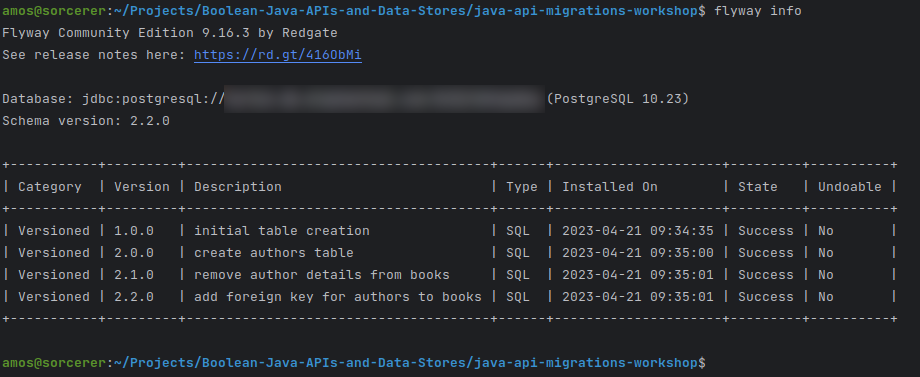
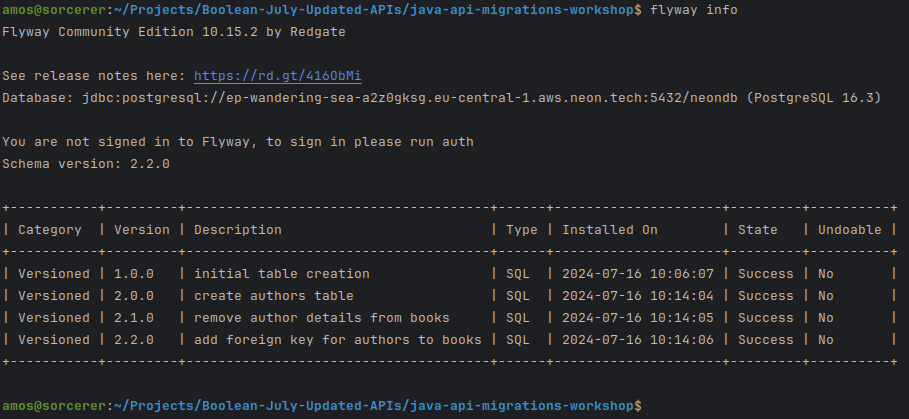
Updated the content to use a newer version of Flyway, to use the .toml file for the config and to connect to a database on Neon. Connection details have already been wiped on Neon.

diff --git a/README.md b/README.md
@@ -43,7 +43,7 @@ Running **flyway —version** should show the version of flyway you have just in
 
 ---
 
-In the previous session, you created a database and tables on Neon which you used Beeline Studio to connect to (using the connection details from Neon).
+In the previous session, you created a database and tables on Neon which you used Beekeeper Studio to connect to (using the connection details from Neon).
 
 Flyway has various places it looks for a config file, which will hold the details of the database connection (in this order):
 
@@ -88,37 +88,50 @@ password = "sample password"
 # buildEnvironment = "build"
 ```
 
-We need to make changes to the top part where it details, the connection details and then uncomment the part where the connection details are referenced.
+Now go to your Neon Dashboard and find the Connection Details, they should look something like this:
 
-Scroll down to the line that reads **flyway.locations=filesystem:sql*** and remove the part after the = sign. Change it so that it reads **flyway.locations=db/migrations** to make flyway read the current directory (where it is being run from) looking for a directory called **db** containing another one called **migrations** which will contain our database migration files.
+![Connection Details](assets/neon-details.png)
 
-Uncomment the line that starts with: **flyway.url** by removing the **#**.
+Take the values listed there and use them to populate your `flyway.toml` file as follows. Also change the name of the connection section from `sample` to something else relevant and uncomment the `environment` part adding the name of the connection sample as shown. It should look something like this (the connection details have already been changed in my Neon account):
 
-Then after the **=** sign add the following:
+```toml
+# More information on the parameters can be found here: https://documentation.red-gate.com/flyway/flyway-cli-and-api/configuration/parameters
 
-`
-jdbc:postgresql://<URL of the database>:5432/<Username/Database name>
-`
+[environments.neon]
+url = "jdbc:postgresql://ep-wandering-sea-a2z0gksg.eu-central-1.aws.neon.tech:5432/neondb"
+user = "neondb_owner"
+password = "FEZYhz5u7KTH"
+# jarDirs = ["path/to/java/migrations"]
+# driver =
+# schemas =
+# connectRetries =
+# connectRetriesInterval =
+# initSql =
+# jdbcProperties =
+# resolvers =
 
-Replace `<URL of the database>` with the **Hostname** details from ElephantSQL
+[flyway]
+environment = "neon" # It is recommended to configure environment as a commandline argument. This allows using different environments depending on the caller.
+locations = ["db/migrations"]
 
-Replace `<Username/Database name>` with the one shown in ElephantSQL.
+# [environments.build]
+# url = "jdbc:sqlite::memory:"
+# user = "buildUser"
+# password = "buildPassword"
 
-![postgres-connection.png](assets/postgres-connection.png)
+# [flyway.check]
+# buildEnvironment = "build"
+```
 
-Uncomment the line that starts **flyway.user** and add the Username/Database name after it.
-
-Uncomment the line that starts **flyway.password** and add the Password after it.
-
-Make sure to save the **flyway.conf** file.
-
-You can test your connection by typing:
+We've also added a location `db/migrations`, which flyway will check for migration files to use. The way it is set up, even though the config file is elsewhere, when we run the following command from the top level of our project (ie we run the command in the terminal in IntelliJ) flyway will look for a folder called `db` containing another folder called `migrations` and use that location. If you make sure you have that all set up and then run the following command:
 
 **flyway migrate**
 
-at the command line and hitting enter. If all is well you should see something that looks like:
+If all is well you should see something that looks like:
 
 ![first-migrate.png](assets/first-migrate.png)
+
+It may include an error or warning that the database isn't empty, but we'll fix that next.
 
 ### Using Flyway to Create and Update a Database
 
@@ -126,9 +139,9 @@ at the command line and hitting enter. If all is well you should see something t
 
 Think about the Book database you started with yesterday.
 
-First of all use TablePlus to go into the ElephantSQL database that was created yesterday and remove all of the tables using **drop table <name-of-table>** replacing <name-of-table> with the names of each table to remove.
+First of all use Beekeeper Studio to go into the Neon database that was created yesterday and remove all of the tables using **drop table <name-of-table>** replacing <name-of-table> with the names of each table to remove. You can then run `flyway migrate` again if you wish to check that everything is now cleared.
 
-Next we are going to create a Books database if we had it as a monolithic table it would look something like:
+Next we are going to create a Books database, if we had it as a single monolithic table, the structure would look something like:
 
 Books
 
@@ -140,19 +153,19 @@ The query we would use to do this looks like this:
 
 ```sql
 CREATE TABLE IF NOT EXISTS Books(
-	id serial primary key,
-	title varchar(255) not null,
-	author varchar(255),
-	publisher varchar(255),
-	year int,
-	genre varchar(255),
-	score int,
-	author_email varchar(255),
-	publisher_location varchar(255)
-)
+	id SERIAL PRIMARY KEY,
+	title TEXT NOT NULL,
+	author TEXT,
+	publisher TEXT,
+	year INT,
+	genre TEXT,
+	score INT,
+	author_email TEXT,
+	publisher_location TEXT
+);
 ```
 
-Rather than run it in TablePlus we are going to use flyway to iterate through creating and then changing (ie Migrating) the database until we get to a final version that matches what we want.
+Rather than run it in Beekeeper Studio we are going to use flyway to iterate through creating and then changing (ie Migrating) the database until we get to a final version that matches what we want.
 
 In the **db/migrations** folder in the repo create a new file called **V1_0_0__initial_table_creation.sql** and paste the above code to create the SQL table in it.
 
@@ -162,7 +175,7 @@ To run the file make sure you are in the top-level directory of the project in y
 
 ![table_creation.png](assets/table_creation.png)
 
-In TablePlus look at the tables in the database, there should be a **Books** one which matches the one defined in our file.
+In Beekeeper Studio look at the tables in the database, there should be a **Books** one which matches the one defined in our file. There will also be a second table called something like `flyway_schema_history` which is part of the way that flyway tracks the tables.
 
 Next, we want to modify the table we just created, we’re going to remove the author and author email columns from the Books table and replace them with a Foreign Key that points to the author in the new Authors table which we’re also going to be creating. We can put all of these changes into a single file, or we can put them into separate ones which are executed in order according to the numbering system which we use.
 
